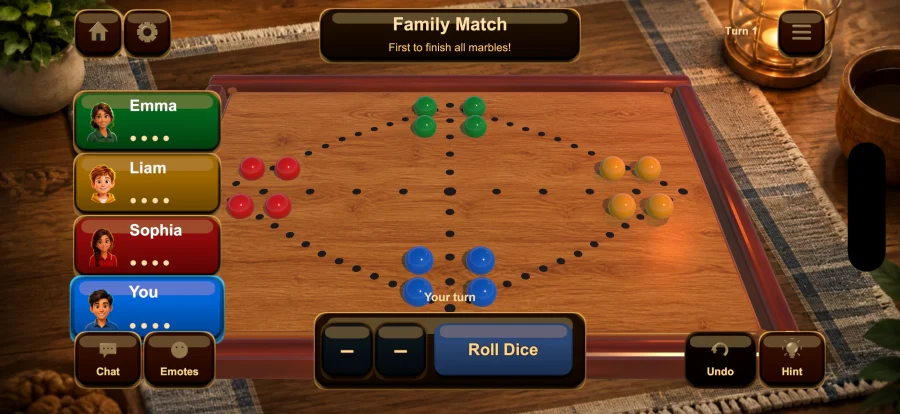
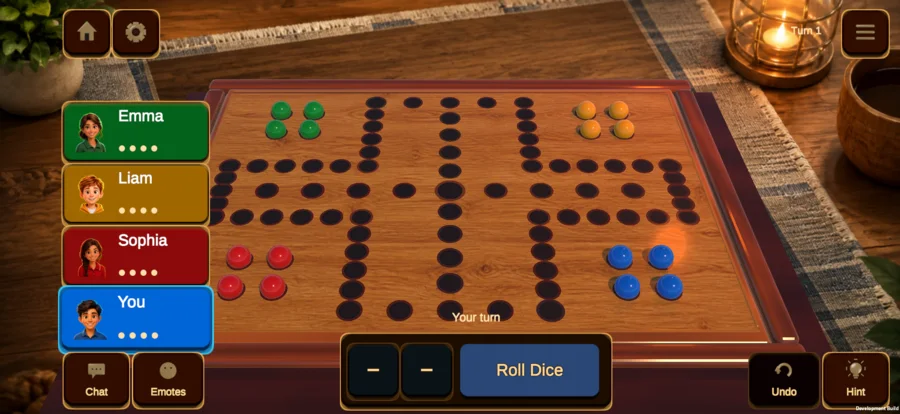
Refresh Marbles catalog preview

diff --git a/catalog.js b/catalog.js
@@ -34,7 +34,7 @@ window.APP_CATALOG = [
     description: "Roll two dice, race, block, and capture on a premium wooden board against three lively computer opponents.",
     icon: "/assets/icons/marbles.webp",
     screenshot: "/assets/screenshots/marbles.webp",
-    screenshotAlt: "Marbles Family Match showing the live wooden board, colored marbles, player panels, dice, hint, and undo controls",
+    screenshotAlt: "Marbles showing a polished wooden cross board, corner marble bases, player panels, two dice, hint, and undo controls",
     status: "coming",
     statusLabel: "Coming soon",
     accent: "amber",
